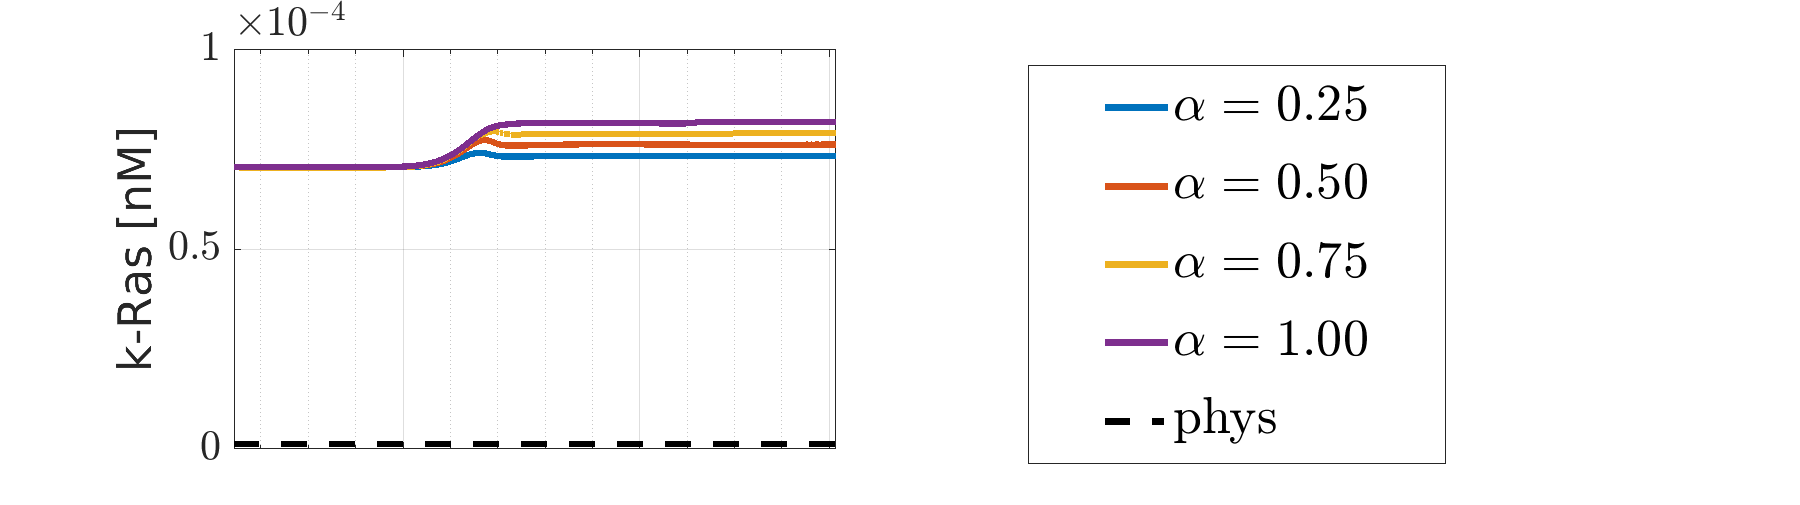
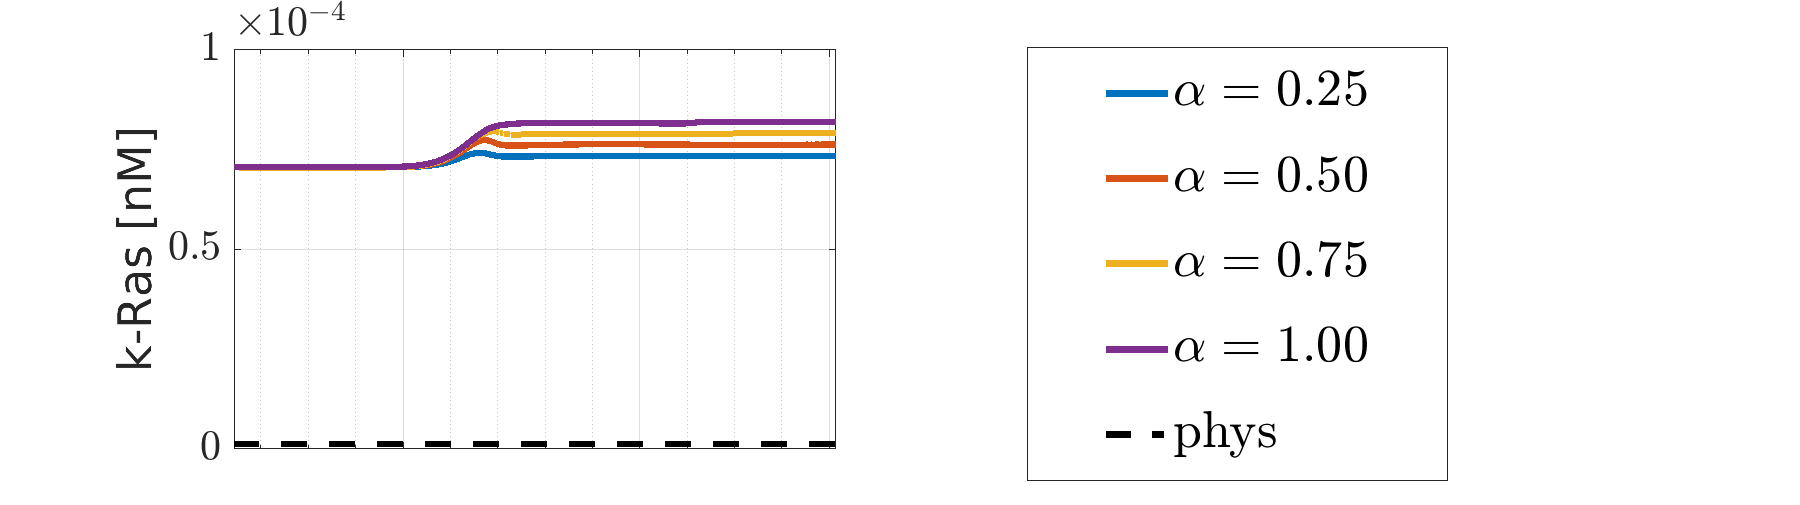
Added actual units for time

diff --git a/script_figures_paper_drugs.m b/script_figures_paper_drugs.m
@@ -145,7 +145,7 @@ for is = 1:numel(idx_p2)
     set(gca, 'Fontsize', 20)
     xlim([aux_time(2), aux_time(end)])
     if is == numel(idx_p2) || is == numel(idx_p2)  - 1
-        xlabel('Time [AU]', 'FontSize', 20)
+        xlabel('Time [s]', 'FontSize', 20)
     end
     xticks([10^(-5) 10^0 10^4])
     xticklabels({'10^{-5}','10^0','10^4'})
@@ -302,7 +302,7 @@ for ip = 1:n_prot
     ylabel('Reaction fluxes')
     
     if ip == 2
-        xlabel('Time [AU]')
+        xlabel('Time [s]')
     end
 
     ax = gca; ax.FontSize = 20;
